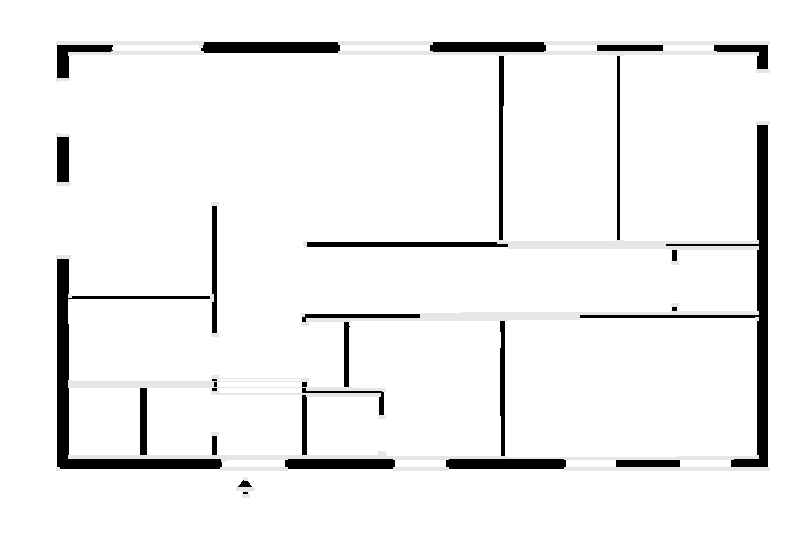
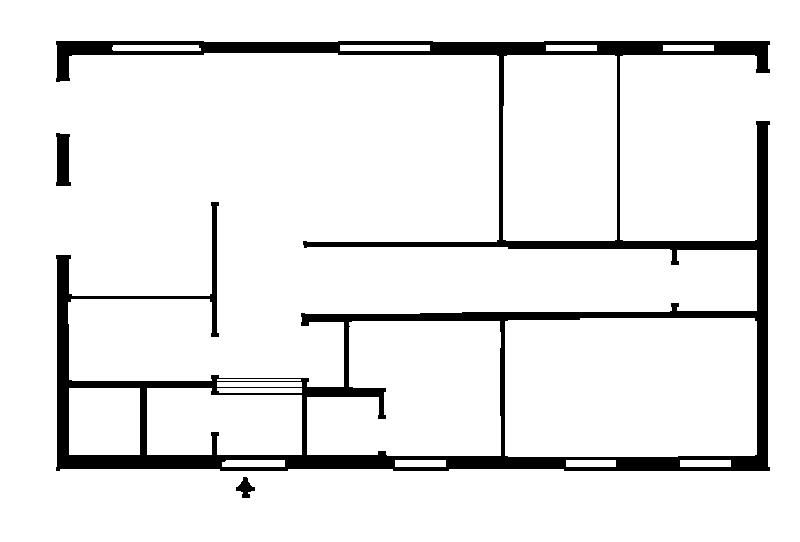
WIP: Room detection (7)

diff --git a/lab/room_detection01.py b/lab/room_detection01.py
@@ -49,8 +49,7 @@ def find_rooms(img, noise_removal_threshold=25, corners_threshold=0.1, room_clos
     x_same_y = np.argwhere(row)
     for x1, x2 in zip(x_same_y[:-1], x_same_y[1:]):
       if x2[0] - x1[0] < room_closing_max_length:
-        # color = 0
-        color = 230
+        color = 0
         # color = random.randint(0,255) 
         # print(f'x1: {x1}, x2: {x2}')
         # print(f'\t\tx1[0]: {x1[0]}, x2[0]: {x2[0]}')
@@ -61,8 +60,7 @@ def find_rooms(img, noise_removal_threshold=25, corners_threshold=0.1, room_clos
     y_same_x = np.argwhere(col)
     for y1, y2 in zip(y_same_x[:-1], y_same_x[1:]):
       if y2[0] - y1[0] < room_closing_max_length:
-        # color = 0
-        color = 230
+        color = 0
         # color = random.randint(0,255)
         # print(f'y1: {y1}, y2: {y2}')
         cv2.line(img, (int(x), int(y1[0])), (int(x), int(y2[0])), color, 1)
